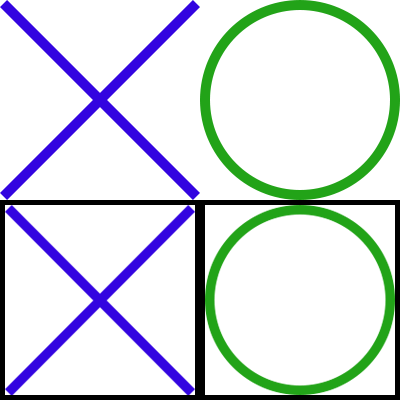
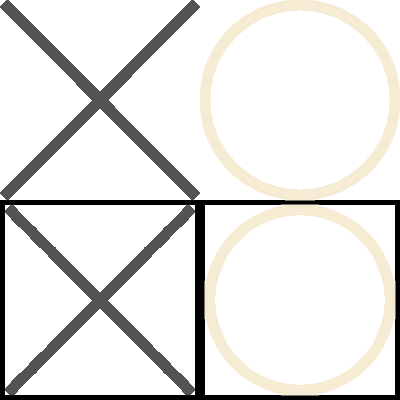
Create start button

Changed region(s): [[0.48, 0.0, 1.0, 0.99], [0.0, 0.0, 0.51, 0.99]]

diff --git a/src/environment.cpp b/src/environment.cpp
@@ -6,7 +6,7 @@
 
 using namespace std;
 
-void hover(Sprite *choice, Vector2i pos, bool &isCursorHand)
+void changeFigureTexture(Sprite *choice, Vector2i pos, bool &isCursorHand)
 {
     for (int i = 0; i < 2; i++)
     {
@@ -22,6 +22,29 @@ void hover(Sprite *choice, Vector2i pos, bool &isCursorHand)
             isCursorHand = false;
         }
     }
+}
+
+void changeButtonTexture(Sprite &button, Text &message, Vector2i pos, bool &isCursorHand)
+{
+    if (button.getGlobalBounds().contains(pos.x, pos.y))
+    {
+        button.setTextureRect(IntRect(0, 80, 350, 80));
+        message.setFillColor(Color(84, 84, 84, 255));
+        isCursorHand = true;
+    }
+    else
+    {
+        button.setTextureRect(IntRect(0, 0, 350, 80));
+        message.setFillColor(Color(245, 236, 211, 255));
+        isCursorHand = false;
+    }
+}
+
+void putRandomValues(int &playerCharacter, int &botCharacter)
+{
+    srand(time(NULL));
+    playerCharacter = rand() % 2;
+    botCharacter = !playerCharacter;
 }
 
 void makeSmartMove(Init &player, Init &bot)
@@ -178,7 +201,7 @@ int checkCells(Init &player, Init &bot)
         if (!player.cellMode[i] && !bot.cellMode[i])
             count++;
     }
-    if (count > 1)
+    if (count > 0)
         return 0;
     return DRAW;
 }

diff --git a/src/environment.hpp b/src/environment.hpp
@@ -33,7 +33,9 @@ public:
     }
 };
 
-void hover(Sprite *choice, Vector2i pos, bool &isCursorHand);
+void changeFigureTexture(Sprite *choice, Vector2i pos, bool &isCursorHand);
+void changeButtonTexture(Sprite &button, Text &message, Vector2i pos, bool &isCursorHand);
+void putRandomValues(int &playerCharacter, int &botCharacter);
 void makeSmartMove(Init &player, Init &bot);
 int checkHorizontal(Init &player, Init &bot, Sprite &line);
 int checkVertical(Init &player, Init &bot, Sprite &line);
